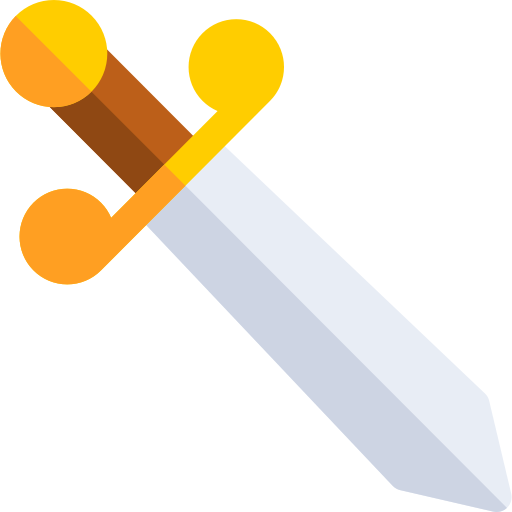
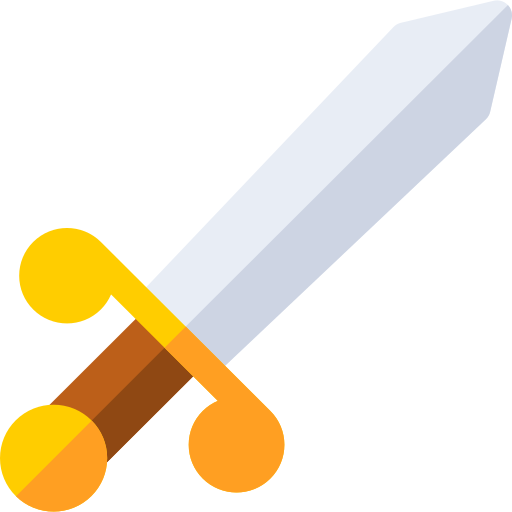
change to clockwise

diff --git a/src/model/weapon/Sword.java b/src/model/weapon/Sword.java
@@ -76,8 +76,8 @@ public class Sword extends Weapon {
     @Override
     public void calculateAnimate() {
         Direction facing = this.owner.getFacing();
-        double originDegree = facing == Direction.UP ? 0
-                : facing == Direction.RIGHT ? 90 : facing == Direction.DOWN ? 180 : 270;
+        double originDegree = facing == Direction.UP ? 270
+                : facing == Direction.RIGHT ? 0 : facing == Direction.DOWN ? 90 : 180;
 
         double progress = 0;
 
@@ -97,7 +97,7 @@ public class Sword extends Weapon {
         // turning = this.animateCd.getPercent();
         // }
 
-        this.degree = originDegree > 360 * turning ? originDegree - 360 * turning : originDegree + 360 * (1 - turning);
+        this.degree = 360 * turning > 45 ? 360 * turning - 45 : 360 * (1 + turning) - 45;
         this.animateCoordinate = CoordinateUtils.fromPolar(this.range, this.degree);
     }
 }
